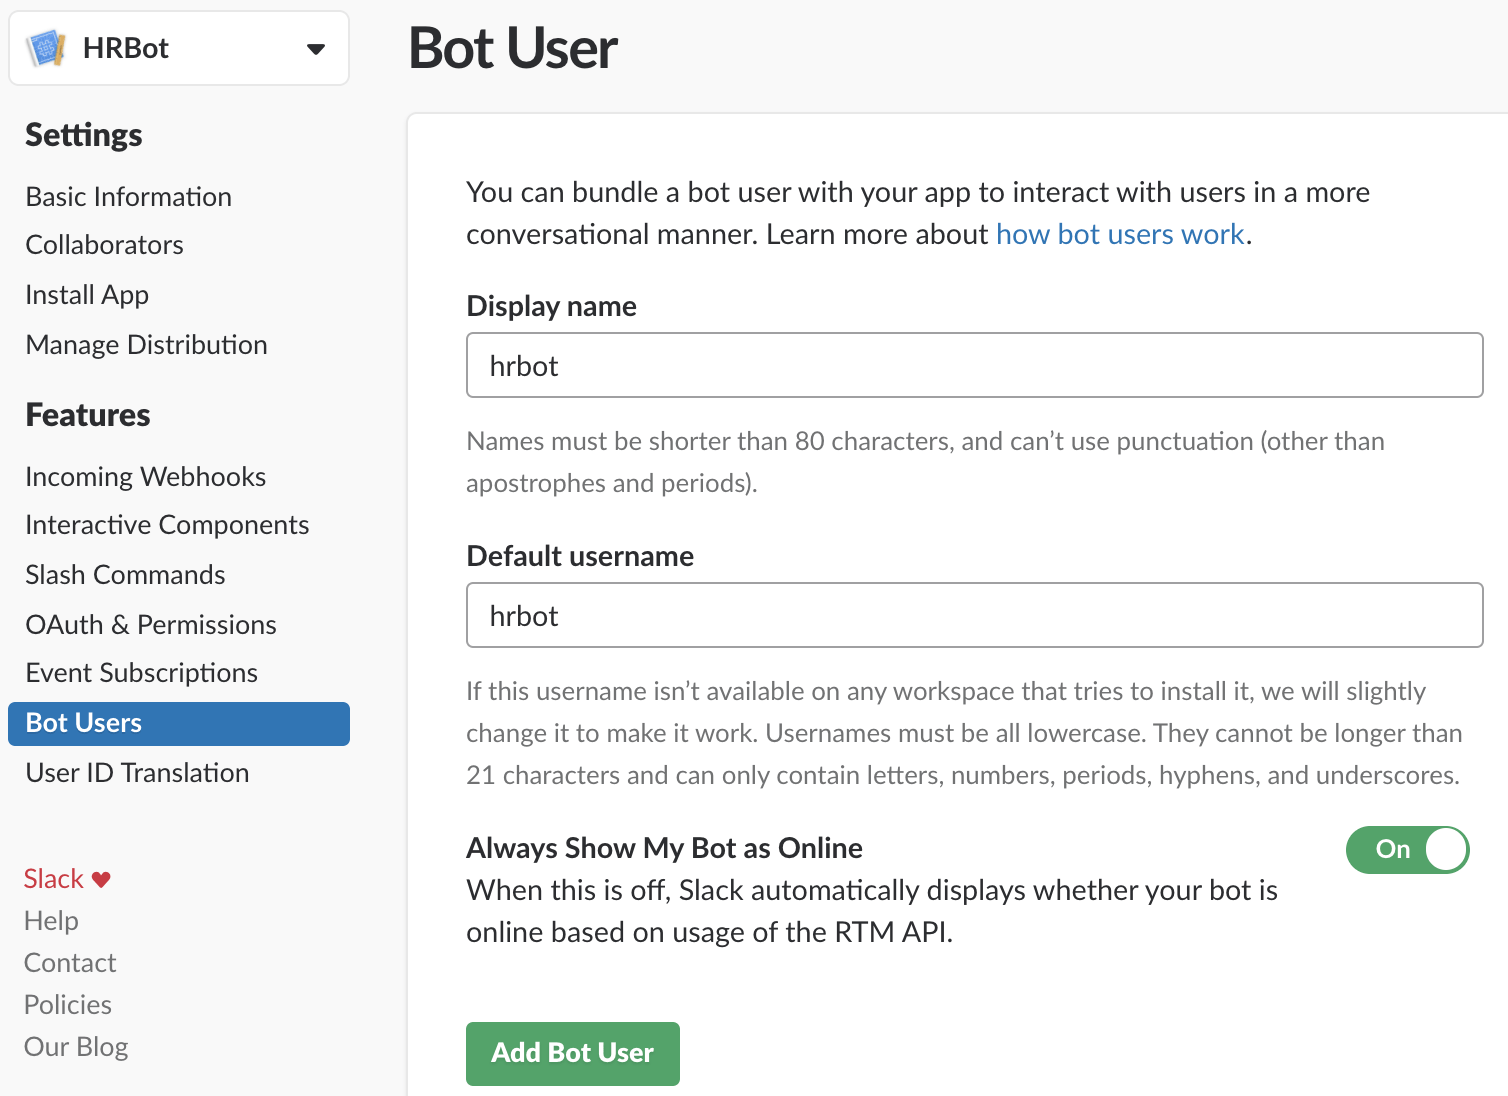
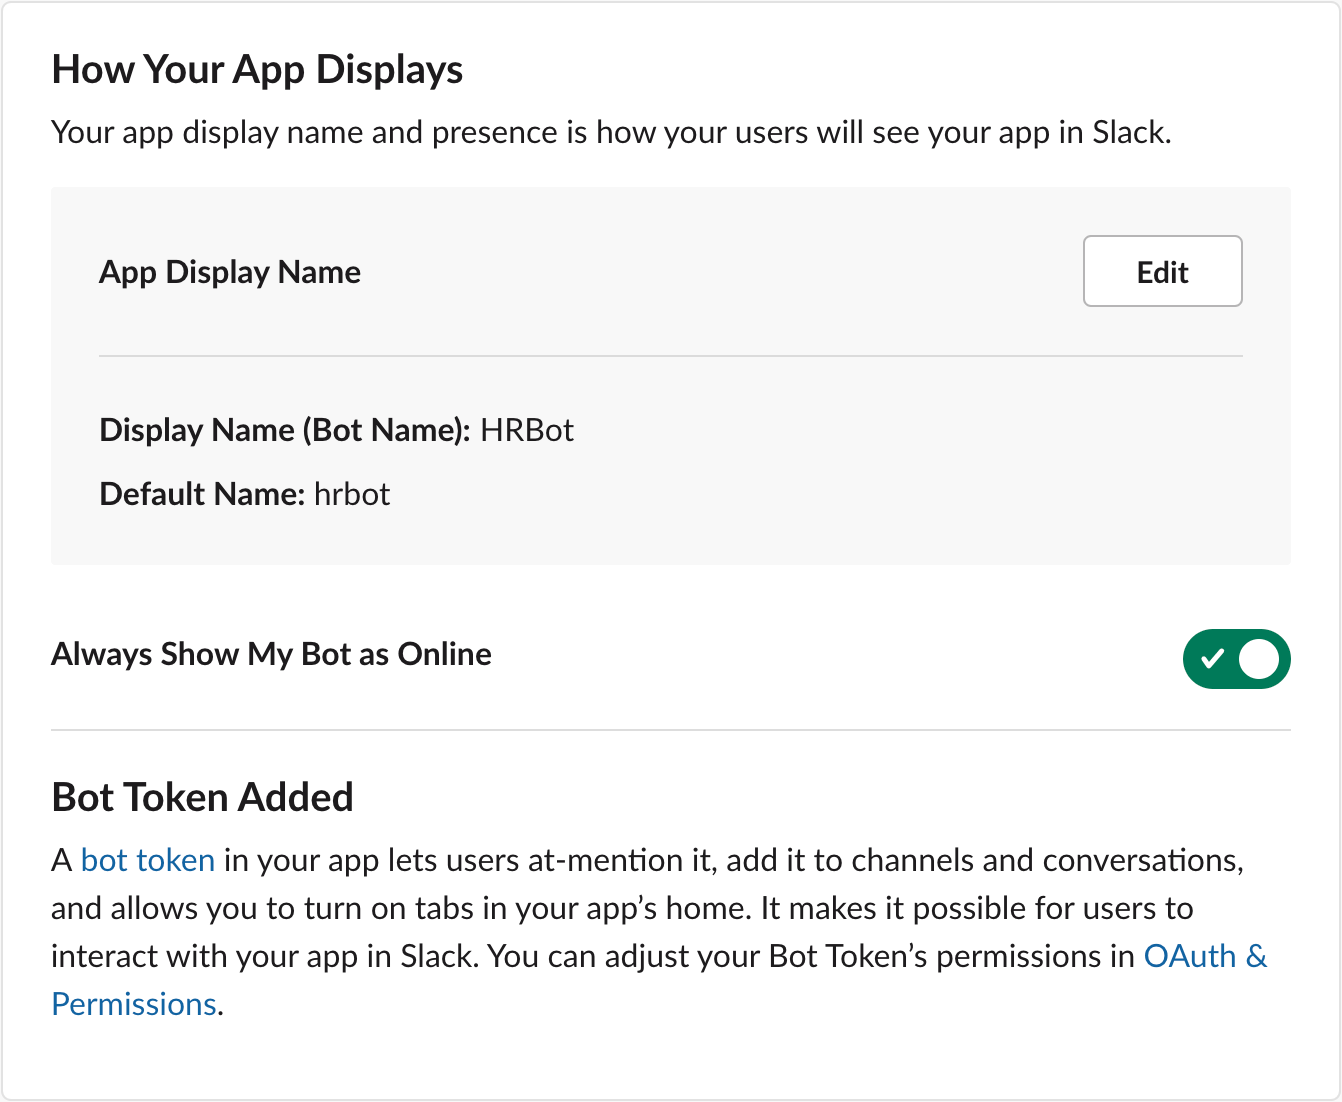
Update custom bot with new scopes
- also updated screenshots

diff --git a/docs/workbot/workbot-custom-bots.md b/docs/workbot/workbot-custom-bots.md
@@ -6,6 +6,9 @@ date: 2018-04-9 10:23:00 Z
 # What are custom bots?
 Custom bots are Slack apps you can use together with Workato for triggers and/or actions. They're useful for when you want to customize your bot for specific functions; giving it a name related to that function, as well as giving it its own icon e.g. HRBot, SupportBot. This allows you greater flexibility in customizing your bot's functionalities and identity.
 
+# Authentication
+Custom bots make use of Slack's [V2 OAuth 2.0 flow](https://api.slack.com/authentication/oauth-v2).
+
 ### Creating a custom bot
 To get started, head to Tools ➤ Workbot like so:
 
@@ -65,21 +68,35 @@ If you get an error like the one below, make sure there are no extra spaces at t
 
 ![Not a proper link error](~@img/workbot/workbot-slash-commands/not-a-proper-link.png)
 
-Scroll down to **Scopes**, and select the following **Permission Scopes**:
-- bot
-- users:read
+Scroll down to **Scopes**, and select the following **Bot Token Scopes**:
+- channels:history
+- channels:read
+- chat:write
+- commands
+- files:read
+- files:write
+- groups:history
+- groups:read
+- im:history
 - im:write
+- mpim:history
+- users:read
+- users:read.email
 
-![Scopes](~@img/workbot/workbot-slash-commands/scopes.png)
+ ![Bot token scopes](~@img/workbot/workbot-slash-commands/bot-token-scopes.png)
 
-Click on **Save Changes**.
+Next, scroll down to **User Token Scopes**, and select the following **User Token Scopes**:
+- identity.basic
+
+![User token scopes](~@img/workbot/workbot-slash-commands/user-token-scopes.png)
+
+Reinstall your app when prompted to.
 
 #### Adding the custom bot as a user in your Slack team
-You'll want to add your custom bot to your team so it can interact with users in a more conversational manner. From the left navigation menu, under **Features**, head over to **Bot Users** and click on **Add a Bot User**.
+Slack automatically adds a bot user to your app when any bot token scopes are selected, but you can (and should) also make it so that your bot always appears online. From the left navigation menu, under **Features**, head over to **App home**.
 
 - Set the **Display name** and **Default username** as the name of your bot e.g. **HRBot**
 - Set **Always Show My Bot as Online** to `ON`
-- Click on Add Bot User
 
 ![Adding a bot user](~@img/workbot/workbot-slash-commands/adding-a-bot-user.png)
 
